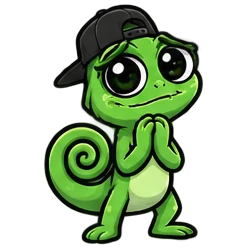
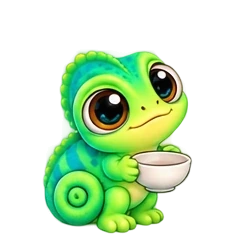
Новий Хамі: 4 стадії росту за рівнями, нові пози, справжня покадрова анімація (дихає/кліпає, махає, стрибає)
Claude-Session: https://claude.ai/code/session_01VzdfxJyxPVyo6PN33hqS2G

diff --git a/js/petlive.js b/js/petlive.js
@@ -3,6 +3,7 @@
 import { S, today, partnerId, partner } from './store.js';
 import { mealsDone, mealAt, mealsOf, isHungry, kyivHour } from '/lib/core.js';
 import { itemsBetween } from './derive.js';
+import { hamiSrc, STAGE_SCALE, HAMI_STAGES } from './ui.js';
 
 let temp = null; // { pose, until, anim }
 let nextIdle = Date.now() + 6000;
@@ -10,6 +11,28 @@ let bubbleUntil = 0;
 let taps = [];
 let lastSnap = null;
 let lastText = '';
+let framing = 0; // frame animation playing until this time
+const FRAMES = { idle: [1, 2, 3, 4, 5, 4, 3, 2, 1], wave: [1, 2, 3, 4, 5, 4, 3, 2, 3, 4, 5, 1], jump: [1, 2, 3, 4, 1, 2, 3, 4] };
+let preloaded = false;
+function preload() { if (preloaded) return; preloaded = true; for (const [k, fr] of Object.entries(FRAMES)) for (const i of new Set(fr)) { const im = new Image(); im.src = hamiSrc(k + i); } }
+function setImg(pose) {
+  const p = el(); const img = p?.querySelector('img'); if (!img) return;
+  const src = hamiSrc(pose);
+  if (!img.src.endsWith(src)) img.src = src;
+  const k = HAMI_STAGES.includes(pose) ? 1 : STAGE_SCALE[p.dataset.stage] || 1;
+  img.style.width = k === 1 ? '' : Math.round(k * 100) + '%';
+}
+/** Real frame-by-frame animation from the sprite frames. */
+export function playFrames(name, fps = 8, text = '', after = null) {
+  const seq = FRAMES[name]; if (!seq || !el()) return;
+  const dur = (seq.length * 1000) / fps;
+  framing = Date.now() + dur;
+  temp = null;
+  seq.forEach((n, i) => setTimeout(() => { if (Date.now() <= framing + 50) setImg(name + n); }, (i * 1000) / fps));
+  setTimeout(() => { framing = 0; if (after) petDo(after, 1600, 'pop'); else apply(true); }, dur + 20);
+  if (text) say(text, Math.max(dur + 400, 2200));
+  nextIdle = Date.now() + dur + 7000 + Math.random() * 6000;
+}
 const rnd = (a) => a[Math.floor(Math.random() * a.length)];
 const el = () => document.getElementById('pet-live');
 
@@ -41,13 +64,13 @@ function burst(emojis, n = 5) {
 function apply(animate) {
   const p = el(); if (!p) return;
   const img = p.querySelector('img'); if (!img) return;
+  if (framing > Date.now()) return;
   const live = temp && temp.until > Date.now();
   const pose = live ? temp.pose : p.dataset.base;
-  const src = `/img/hami/${pose}.webp`;
-  if (!img.src.endsWith(src)) {
-    img.src = src;
+  if (!img.src.endsWith(hamiSrc(pose))) {
+    setImg(pose);
     if (animate) { p.classList.remove('swap'); void p.offsetWidth; p.classList.add('swap'); }
-  }
+  } else setImg(pose);
   p.classList.remove('a-hop', 'a-jump', 'a-shake', 'a-flip', 'a-melt');
   if (live && temp.anim && temp.anim !== 'pop') { void p.offsetWidth; p.classList.add('a-' + temp.anim); }
 }
@@ -76,15 +99,15 @@ function idle() {
   if (base === 'tired') { petDo('tired', 2000, 'melt', rnd(['Я такий голодний… 🥺', 'Сил немає… погодуй мене'])); return; }
   if (base === 'hungry' || !mealsOf(pet, t)[mealAt()]) { petDo('hungry', 2600, 'hop', rnd(['Я б з’їв мушку 🥺', 'Бурчить у животику…', 'Час їсти! 🍽'])); return; }
   const acts = [
-    () => petDo('hello', 2400, 'hop', rnd(['Привіт! 👋', 'Агов! 😎'])),
+    () => playFrames('wave', 8, rnd(['Привіт! 👋', 'Агов! 😊'])),
     () => petDo('thinking', 3000, 'pop', rnd(phrases())),
-    () => petDo('sit', 3400, 'pop'),
+    () => petDo('normal', 3000, 'pop'),
     () => petDo(base, 1600, 'flip'),
     () => petDo('great', 2200, 'hop', rnd(['Ви молодці! 👍', 'Клас! ✨'])),
-    () => petDo('think', 3000, 'pop', rnd(phrases())),
-    () => { petDo('joy', 2000, 'jump'); burst(['✨', '🎉', '💚'], 4); },
+    () => petDo('heart', 2800, 'pop', rnd(phrases())),
+    () => { playFrames('jump', 8); burst(['✨', '🎉', '💚'], 4); },
     () => say(rnd(phrases()), 3600),
-    () => petDo('whisper', 2800, 'pop', rnd(['Пссс… обійми її 🤫', 'Пссс… скажи комплімент 🤫', 'Пссс… запроси на каву ☕'])),
+    () => petDo('wow', 2600, 'hop', rnd(['Ой! Ти тут 😳', 'Пссс… обійми її 🤫', 'Пссс… запроси на каву ☕'])),
   ];
   rnd(acts)();
 }
@@ -97,16 +120,16 @@ function tap() {
   if (taps.length >= 5) { petDo('angry', 2600, 'shake', rnd(['Ну досить 😤', 'Щекотно ж! 😤', 'Я тобі не кнопка! 😤'])); taps = []; return; }
   const base = el()?.dataset.base;
   if (base === 'sleep') { petDo('tired', 2000, 'shake', 'Ммм… дай поспати 😴'); return; }
-  rnd([() => petDo('joy', 1800, 'jump'), () => petDo('great', 1800, 'hop'), () => petDo('hello', 1800, 'hop')])();
+  rnd([() => playFrames('jump', 9), () => petDo('great', 1800, 'hop'), () => playFrames('wave', 9), () => petDo('joy', 1800, 'jump')])();
   burst(['💚', '💕', '✨'], 3);
 }
 function pet() { petDo('heart', 3000, 'melt', rnd(['Мрр… 💚', 'Ще погладь 🥰', 'Як приємно 😌'])); burst(['💕', '💖', '💗'], 7); navigator.vibrate?.([10, 40, 10]); }
 
 export function petEvent(kind) {
-  if (kind === 'feed') { setTimeout(() => burst(['🦗', '😋'], 3), 200); petDo('eat', 3200, 'hop', rnd(['Ням-ням! 😋', 'Смакота!', 'Дякую! 💚'])); setTimeout(() => el() && petDo('joy', 1800, 'jump'), 3300); }
-  if (kind === 'win') petDo('joy', 3000, 'jump', rnd(['Перемога! 🎉', 'Ми чемпіони! 🏆']));
+  if (kind === 'feed') { setTimeout(() => burst(['🦗', '😋'], 3), 200); petDo('eat', 3200, 'hop', rnd(['Ням-ням! 😋', 'Смакота!', 'Дякую! 💚'])); setTimeout(() => el() && playFrames('jump', 8), 3300); }
+  if (kind === 'win') playFrames('jump', 8, rnd(['Перемога! 🎉', 'Ми чемпіони! 🏆']), 'joy');
   if (kind === 'lose') petDo('sad', 2600, 'melt', 'Наступного разу вийде 💪');
-  if (kind === 'great') { petDo('joy', 2400, 'jump', 'Ура! 💚'); burst(['💚', '✨'], 5); }
+  if (kind === 'great') { playFrames('jump', 8, 'Ура! 💚', 'great'); burst(['💚', '✨'], 5); }
   if (kind === 'ok') petDo('normal', 2200, 'pop', 'Норм — теж добре 💛');
   if (kind === 'sad') petDo('heart', 3200, 'pop', 'Я поруч. Обійми? 💙');
 }
@@ -125,6 +148,7 @@ function partnerNews() {
 /** Called after every render of the page. */
 export function petMount() {
   const p = el(); if (!p) return;
+  preload();
   apply(false);
   if (Date.now() < bubbleUntil && lastText) say(lastText, bubbleUntil - Date.now());
   partnerNews();
@@ -149,6 +173,9 @@ setInterval(() => {
   if (!el()) return;
   if (temp && temp.until <= Date.now()) { temp = null; apply(true); }
   hideBubble();
-  if (Date.now() > nextIdle) { nextIdle = Date.now() + 9000 + Math.random() * 7000; idle(); }
+  if (Date.now() > nextIdle) { nextIdle = Date.now() + 9000 + Math.random() * 7000; idle(); return; }
+  // grown-up Хамі breathes and blinks with real frames now and then
+  const p = el();
+  if (p.dataset.base === 'adult' && !framing && !(temp && temp.until > Date.now()) && Math.random() < 0.12 && !document.hidden) playFrames('idle', 7);
 }, 500);
 void kyivHour; void isHungry;

diff --git a/js/views/me.js b/js/views/me.js
@@ -1,7 +1,7 @@
 // «Ми» — the main screen.
 import { S, on, act, go, openSheet, closeSheet, openForm, toast, today, partnerId, partner, meM, nameOf, LS } from '../store.js';
-import { esc, icon, otter, hami, avatar, fmtDate, plural, money, emptyState } from '../ui.js';
-import { kyivHour, MEALS, mealAt, mealsOf, mealsDone, levelInfo, streakOf, tasksFor, TASKS, MOODS, checkinWeek, dayDiff, addDays, FINDS, RARITY, XP, ITEMS, SLOTS, BADGES, lookOf, itemOf, unlocked, unlockText, isHungry } from '/lib/core.js';
+import { esc, icon, otter, hami, STAGE_SCALE, HAMI_STAGES, avatar, fmtDate, plural, money, emptyState } from '../ui.js';
+import { stageOf, kyivHour, MEALS, mealAt, mealsOf, mealsDone, levelInfo, streakOf, tasksFor, TASKS, MOODS, checkinWeek, dayDiff, addDays, FINDS, RARITY, XP, ITEMS, SLOTS, BADGES, lookOf, itemOf, unlocked, unlockText, isHungry } from '/lib/core.js';
 import { GAMES, pickGame } from '../games.js';
 import { petEvent } from '../petlive.js';
 import { itemsBetween, stats, firstSteps, KIND } from '../derive.js';
@@ -77,9 +77,10 @@ function fxLayer(fx) {
   const list = FX[fx].split(' ');
   return `<span class="fx fx-${fx}" aria-hidden="true">${Array.from({ length: 9 }, (_, i) => `<i style="--i:${i}">${list[i % list.length]}</i>`).join('')}</span>`;
 }
-function petSvg(look, pose, color, size) {
+function petSvg(look, pose, color, size, stage = 'adult') {
   const c = look.skin && look.skin !== 'mood' ? look.skin : color;
-  return hami(pose, { size, color: c, bob: true });
+  const p = pose === 'idle' ? stage : pose;
+  return hami(p, { size, color: c, bob: true, scale: HAMI_STAGES.includes(p) ? 1 : STAGE_SCALE[stage] });
 }
 const DECO = { forest: '🌿 🍃', meadow: '🌼 🌷 🐝', beach: '☀ 🌊 🐚', sakura: '🌸 🌸 🌸', snow: '❄ ⛄ ❄', sunset: '🌅 🕊', night: '🌙 ✨ ⭐', space: '🪐 ✨ 🌠', aurora: '✨ 🌌 ✨' };
 const sceneDeco = (sc) => `<span class="deco" aria-hidden="true">${(DECO[sc] || '').split(' ').map((e, i) => `<i style="--i:${i}">${e}</i>`).join('')}</span>`;
@@ -95,7 +96,9 @@ function petCard(r, t) {
   const look = lookOf(pet);
   const h = kyivHour();
   const night = (h >= 23 || h < 7) && nMeals > 0;
-  const face = S.ui.petPose && S.ui.petPose.until > Date.now() ? S.ui.petPose.p : night ? 'sleep' : hungry ? 'tired' : !fed ? 'hungry' : todayMood ? MOOD_POSE[todayMood] : look.pose || 'cool';
+  const face = S.ui.petPose && S.ui.petPose.until > Date.now() ? S.ui.petPose.p : night ? 'sleep' : hungry ? 'tired' : !fed ? 'hungry' : todayMood ? MOOD_POSE[todayMood] : look.pose || 'idle';
+  const stage = stageOf(lv.level);
+  const pose = face === 'idle' ? stage : face;
   const color = hungry ? 'grey' : { great: 'green', ok: 'yellow', sad: 'blue' }[todayMood] || 'green';
   const tasks = tasksFor(t);
   const claimed = r.daily?.[t]?.[S.me.id]?.claimed || {};
@@ -116,7 +119,7 @@ function petCard(r, t) {
       <button class="wardrobe" data-a="wardrobe" aria-label="Гардероб">${icon('shirt', 20)}</button>
       <button class="wardrobe second" data-a="collection" aria-label="Колекція знахідок">🍃<span class="wd-n">${found}</span></button>
       <button class="wardrobe third" data-a="badges" aria-label="Нагороди">🏅<span class="wd-n">${Object.keys(pet.badges || {}).length}</span></button>
-      <div class="pet-otter" id="pet-live" data-base="${face}">${petSvg(look, face, color, 170)}</div>
+      <div class="pet-otter" id="pet-live" data-base="${pose}" data-stage="${stage}">${petSvg(look, pose, color, 190, stage)}</div>
       ${hungry && pet.lastFed ? '<span class="hungry-tag">Голодний — ігри без досвіду</span>' : ''}
       <span class="tap-pill">🎮 ГРАТИ</span>
     </div>
@@ -365,9 +368,9 @@ function wardrobeSheet(slot = 'pose') {
   let cur = slot;
   const body = (look) => {
     const lv = levelInfo(S.room.pet.xp).level;
-    const swatch = (it) => (it.slot === 'pose' ? hami(it.e, { size: 56 }) : it.slot === 'skin' && it.e.startsWith('#') ? `<span class="sw" style="background:${it.e}"></span>` : `<span class="wd-e">${it.e}</span>`);
+    const swatch = (it) => (it.slot === 'pose' ? hami(it.e === 'idle' ? stageOf(lv) : it.e, { size: 56 }) : it.slot === 'skin' && it.e.startsWith('#') ? `<span class="sw" style="background:${it.e}"></span>` : `<span class="wd-e">${it.e}</span>`);
     return `<div class="sheet-h"><h3>Гардероб</h3><span class="chip">рівень ${lv}</span></div>
-      <div class="wd-preview pet-scene scene-${look.scene}">${sceneDeco(look.scene)}${fxLayer(look.fx)}${petSvg(look, look.pose, 'green', 170)}</div>
+      <div class="wd-preview pet-scene scene-${look.scene}">${sceneDeco(look.scene)}${fxLayer(look.fx)}${petSvg(look, look.pose, 'green', 170, stageOf(levelInfo(S.room.pet.xp).level))}</div>
       <div class="wd-tabs">${Object.entries(SLOTS).map(([k, n]) => `<button class="pill ${k === cur ? 'on' : ''}" data-slot="${k}">${n}</button>`).join('')}</div>
       <div class="wardrobe-grid ${cur === 'pose' ? 'poses' : ''}">${ITEMS.filter((x) => x.slot === cur).map((it) => {
         const ok = unlocked(S.room, it);

diff --git a/lib/core.js b/lib/core.js
@@ -32,6 +32,7 @@ export const OUTFITS = [
 ];
 
 // Level n → n+1 needs 120 + (n-1)·80 XP (crown, level 8, ≈ 2–2.5 months of an active pair).
+export const stageOf = (level) => (level <= 2 ? 'baby' : level <= 5 ? 'kid' : level <= 9 ? 'teen' : 'adult');
 export const levelNeed = (level) => 120 + (level - 1) * 80;
 export const levelStart = (level) => { let t = 0; for (let i = 1; i < level; i++) t += levelNeed(i); return t; };
 export function levelInfo(xp = 0) {
@@ -86,9 +87,9 @@ export const SLOTS = { pose: 'Поза', skin: 'Колір', fx: 'Ефект', s
 const I = (slot, id, e, name, unlock = { lvl: 1 }) => ({ slot, id, e, name, unlock });
 export const ITEMS = [
   // pose = Хамі's everyday pose on the pet card (moods, hunger and night still change it)
-  I('pose', 'cool', 'cool', 'Показує клас'), I('pose', 'sit', 'sit', 'Сидить'), I('pose', 'hello', 'hello', 'Вітається', { lvl: 2 }), I('pose', 'normal', 'normal', 'Руки схрестив', { lvl: 3 }),
-  I('pose', 'great', 'great', 'Два лайки', { lvl: 4 }), I('pose', 'guide', 'guide', 'Мандрівник', { lvl: 5 }), I('pose', 'chef', 'chef', 'Кухар', { lvl: 6 }), I('pose', 'whisper', 'whisper', 'Секретник', { lvl: 7 }),
-  I('pose', 'hide', 'hide', 'Ховається', { lvl: 8 }), I('pose', 'joy', 'joy', 'Танцює', { lvl: 10 }),
+  I('pose', 'idle', 'idle', 'Сидить'), I('pose', 'hello', 'hello', 'Вітається', { lvl: 2 }), I('pose', 'normal', 'normal', 'Спокійний', { lvl: 3 }),
+  I('pose', 'great', 'great', 'Радіє', { lvl: 4 }), I('pose', 'guide', 'guide', 'Дослідник', { lvl: 5 }), I('pose', 'chef', 'chef', 'Кухар', { lvl: 6 }),
+  I('pose', 'reminder', 'reminder', 'З будильником', { lvl: 7 }), I('pose', 'shopping', 'shopping', 'Покупець', { lvl: 8 }), I('pose', 'joy', 'joy', 'Танцює', { lvl: 10 }),
   I('pose', 'heart', 'heart', 'З сердечком', { badge: 'notes10' }), I('pose', 'play', 'play', 'Геймер', { badge: 'wins50' }), I('pose', 'letter', 'letter', 'Листоноша', { badge: 'checkin4' }),
   I('skin', 'mood', '🎭', 'Як настрій'), I('skin', 'green', '#5CC24A', 'Класичний'), I('skin', 'emerald', '#2FBF71', 'Смарагд'), I('skin', 'turquoise', '#3CC8D8', 'Бірюза', { lvl: 2 }),
   I('skin', 'coral', '#FF8A70', 'Корал', { lvl: 4 }), I('skin', 'violet', '#B48CF0', 'Бузок', { lvl: 5 }), I('skin', 'golden', '#F4C542', 'Золото', { lvl: 6 }), I('skin', 'night', '#4B5DBA', 'Ніч', { lvl: 7 }),
@@ -102,7 +103,7 @@ export const ITEMS = [
   I('scene', 'snow', '❄', 'Зима', { lvl: 5 }), I('scene', 'sunset', '🌅', 'Захід сонця', { lvl: 6 }), I('scene', 'night', '🌙', 'Нічне небо', { lvl: 7 }),
   I('scene', 'space', '🚀', 'Космос', { lvl: 10 }), I('scene', 'aurora', '🌌', 'Північне сяйво', { badge: 'streak30' }),
 ];
-export const DEFAULT_LOOK = { pose: 'cool', skin: 'mood', fx: 'none', scene: 'forest' };
+export const DEFAULT_LOOK = { pose: 'idle', skin: 'mood', fx: 'none', scene: 'forest' };
 export const lookOf = (pet) => ({ ...DEFAULT_LOOK, ...(pet.look || {}) });
 export const itemOf = (slot, id) => ITEMS.find((x) => x.slot === slot && x.id === id);
 
@@ -172,6 +173,7 @@ export function upgradePet(s, today) {
     pet.badges ||= {};
     pet.v2 = true;
   }
+  if (pet.look && !ITEMS.some((x) => x.slot === 'pose' && x.id === pet.look.pose)) pet.look.pose = 'idle';
   if (!pet.v5) { pet.look = { ...DEFAULT_LOOK, skin: pet.look?.skin && ITEMS.some((x) => x.slot === 'skin' && x.id === pet.look.skin) ? pet.look.skin : 'mood', scene: pet.look?.scene || 'forest' }; pet.v4 = true; pet.v5 = true; }
   if (!pet.v4 && pet.look) { const L = pet.look; if ((!L.hand || L.hand === 'none') && ITEMS.some((x) => x.slot === 'hand' && x.id === (L.neck || L.back))) L.hand = L.neck !== 'none' && L.neck ? L.neck : L.back; if (L.hat === 'cap') L.hat = 'none'; pet.v4 = true; }
   if (!pet.v3) { if (pet.lastFed && !pet.lastFull) pet.lastFull = pet.lastFed; pet.v3 = true; }

diff --git a/js/ui.js b/js/ui.js
@@ -120,24 +120,28 @@ export const PALETTE = {
   rainbow: ['url(#RB)', '#7E57C2', '#FFF4CC', '#FFFFFF'],
 };
 /* Хамі — sticker sprites (img/hami/*.webp). Colour = CSS hue shift of the green original. */
-export const HAMI_POSES = ['cool', 'great', 'normal', 'sad', 'joy', 'wow', 'angry', 'tired', 'sleep', 'thinking', 'hello', 'heart', 'eat', 'hungry', 'play', 'letter', 'shopping', 'reminder', 'guide', 'chef', 'whisper', 'hide', 'think', 'sit'];
+export const HAMI_STAGES = ['baby', 'kid', 'teen', 'adult'];
+export const HAMI_POSES = [...HAMI_STAGES, 'letter', 'shopping', 'reminder', 'guide', 'chef', 'great', 'normal', 'sad', 'joy', 'wow', 'angry', 'tired', 'sleep', 'thinking', 'heart', 'eat', 'hungry', 'play'];
+// older pose names → current pictures
+const HAMI_ALIAS = { cool: 'adult', sit: 'adult', idle: 'adult', hello: 'wave3', whisper: 'normal', hide: 'thinking', think: 'thinking' };
+export const hamiSrc = (pose) => `/img/hami/${HAMI_ALIAS[pose] || (HAMI_POSES.includes(pose) || /^(idle|wave|jump)\d$/.test(pose) ? pose : 'adult')}.webp`;
+// younger stages are smaller: other poses are drawn adult-size, so scale them down
+export const STAGE_SCALE = { baby: 0.72, kid: 0.82, teen: 0.92, adult: 1 };
 // top of the cap, % of the sprite (for a hat worn on top)
-export const HAMI_TOP = { angry: [51.2, 2], chef: [32.3, 2.6], cool: [46.9, 5.2], eat: [45, 2.1], great: [47.4, 2.1], guide: [45.1, 2.5], heart: [39.9, 2.1], hello: [51.5, 2], hide: [45.5, 1.9], hungry: [48.8, 2], joy: [45, 2.8], letter: [47.5, 2], normal: [50.7, 2.1], play: [44.6, 2.2], reminder: [44, 2.4], sad: [55, 46], shopping: [42.8, 2.5], sit: [50.8, 1.9], sleep: [39.9, 34.2], think: [51.4, 1.9], thinking: [42.3, 2.1], tired: [56.7, 2.1], whisper: [49, 3.7], wow: [44.4, 2.1] };
 const HUE = {
   green: '', emerald: 'hue-rotate(25deg) saturate(1.1)', mint: 'hue-rotate(45deg)', turquoise: 'hue-rotate(75deg)', blue: 'hue-rotate(110deg)',
   night: 'hue-rotate(125deg) brightness(.8) saturate(1.2)', violet: 'hue-rotate(160deg)', pink: 'hue-rotate(215deg) saturate(.9)', coral: 'hue-rotate(250deg) saturate(1.1)',
   golden: 'hue-rotate(-45deg) saturate(1.3) brightness(1.05)', yellow: 'hue-rotate(-40deg) saturate(1.2)', grey: 'saturate(.15) brightness(1.05)', rainbow: '',
 };
 export const hamiFilter = (color) => HUE[color] || '';
-export function hami(pose = 'cool', { size = 120, color = 'green', bob = false, cls = '', hat = '', near = '' } = {}) {
-  if (!HAMI_POSES.includes(pose)) pose = 'cool';
+export function hami(pose = 'adult', { size = 120, color = 'green', bob = false, cls = '', scale = 1 } = {}) {
   const f = hamiFilter(color);
-  const [hx, hy] = HAMI_TOP[pose] || [50, 2];
-  return `<span class="otter hami ${bob ? 'bob' : ''} ${color === 'rainbow' ? 'rainbow' : ''} ${cls}" style="--s:${size}px"><img src="/img/hami/${pose}.webp" alt="" width="${size}" height="${size}" draggable="false"${f ? ` style="filter:${f}"` : ''}>${hat ? `<span class="hami-hat" style="left:${hx}%;top:${hy}%">${hat}</span>` : ''}${near ? `<span class="hami-near">${near}</span>` : ''}</span>`;
+  const st = [f ? `filter:${f}` : '', scale !== 1 ? `width:${Math.round(scale * 100)}%` : ''].filter(Boolean).join(';');
+  return `<span class="otter hami ${bob ? 'bob' : ''} ${color === 'rainbow' ? 'rainbow' : ''} ${cls}" style="--s:${size}px"><img src="${hamiSrc(pose)}" alt="" width="${size}" height="${size}" draggable="false"${st ? ` style="${st}"` : ''}></span>`;
 }
 // Backward-compatible helper: face/pose → sticker.
 export function otter({ face = 'happy', pose = '', size = 160, bob = false, color } = {}) {
-  const p = HAMI_POSES.includes(pose) ? pose : pose === 'wave' ? 'hello' : { happy: 'cool', ok: 'normal', sad: 'sad', love: 'heart', sleep: 'sleep', wow: 'wow' }[face] || 'cool';
+  const p = HAMI_POSES.includes(pose) || HAMI_ALIAS[pose] ? pose : pose === 'wave' ? 'hello' : { happy: 'great', ok: 'normal', sad: 'sad', love: 'heart', sleep: 'sleep', wow: 'wow' }[face] || 'adult';
   return hami(p, { size, bob, color: color || 'green' });
 }
 export const mascot = otter;

diff --git a/styles.css b/styles.css
@@ -1022,3 +1022,4 @@ b, h1, h2, h3, .ntext { overflow-wrap: break-word; word-break: normal; }
 .pet-say { position: absolute; z-index: 4; left: 56%; top: 10px; transform: translateX(-50%) scale(.6); max-width: 64%; padding: 8px 12px; border-radius: 16px 16px 16px 4px; background: #fff; color: #2A1E1A; font-weight: 700; font-size: 14px; line-height: 1.3; text-align: center; box-shadow: 0 6px 18px -8px rgba(0,0,0,.5); opacity: 0; pointer-events: none; transition: opacity .25s, transform .3s cubic-bezier(.2, 1.5, .4, 1); }
 .pet-say.in { opacity: 1; transform: translateX(-50%) scale(1); }
 .pet-say.out { opacity: 0; transform: translateX(-50%) scale(.8); }
+.hami img { margin: 0 auto; }

diff --git a/sw.js b/sw.js
@@ -1,4 +1,4 @@
-const CACHE = 'hamelyky-v31';
+const CACHE = 'hamelyky-v32';
 const SHELL = [
   '/', '/index.html', '/styles.css', '/manifest.webmanifest',
   '/js/app.js', '/js/games.js', '/js/osm.js', '/js/push.js', '/js/store.js', '/js/ui.js', '/js/derive.js', '/js/whisper.js', '/js/petlive.js',
